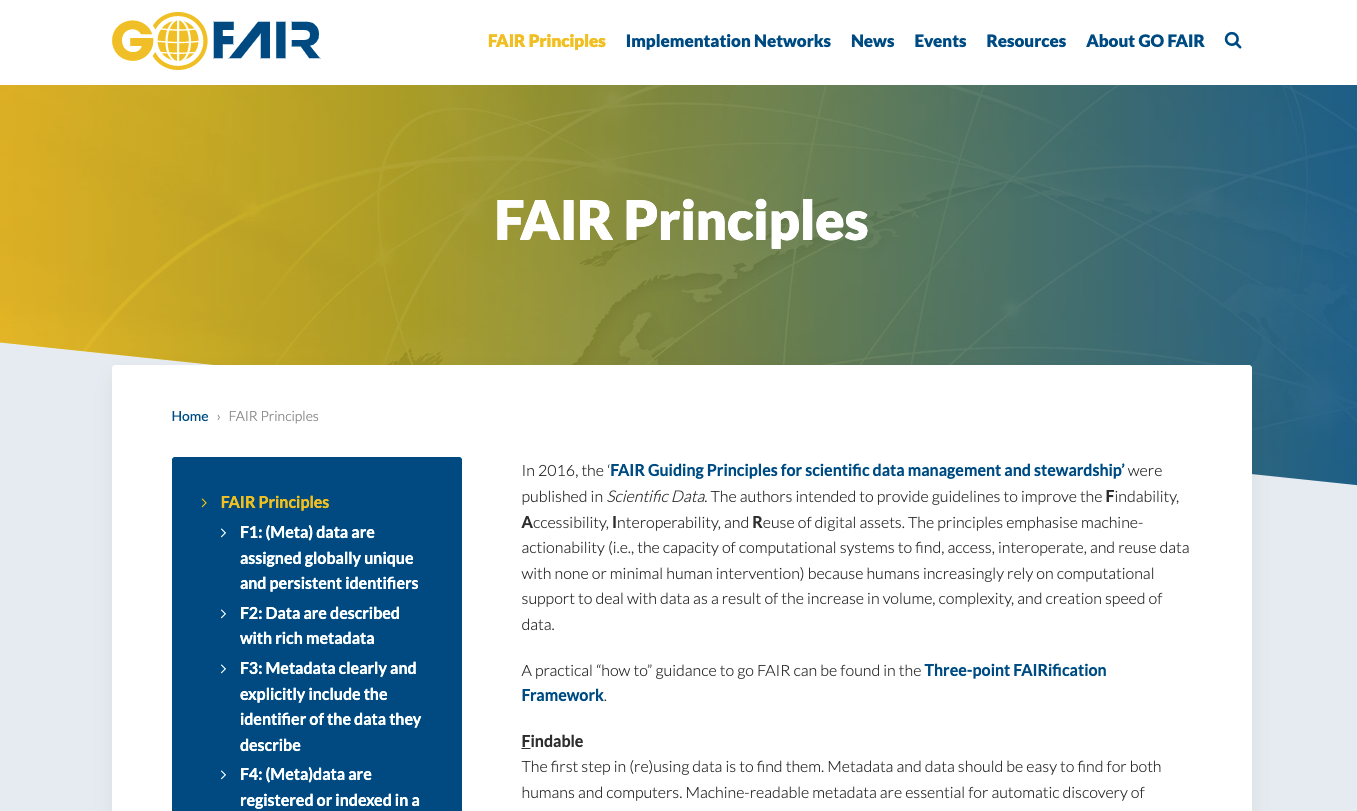
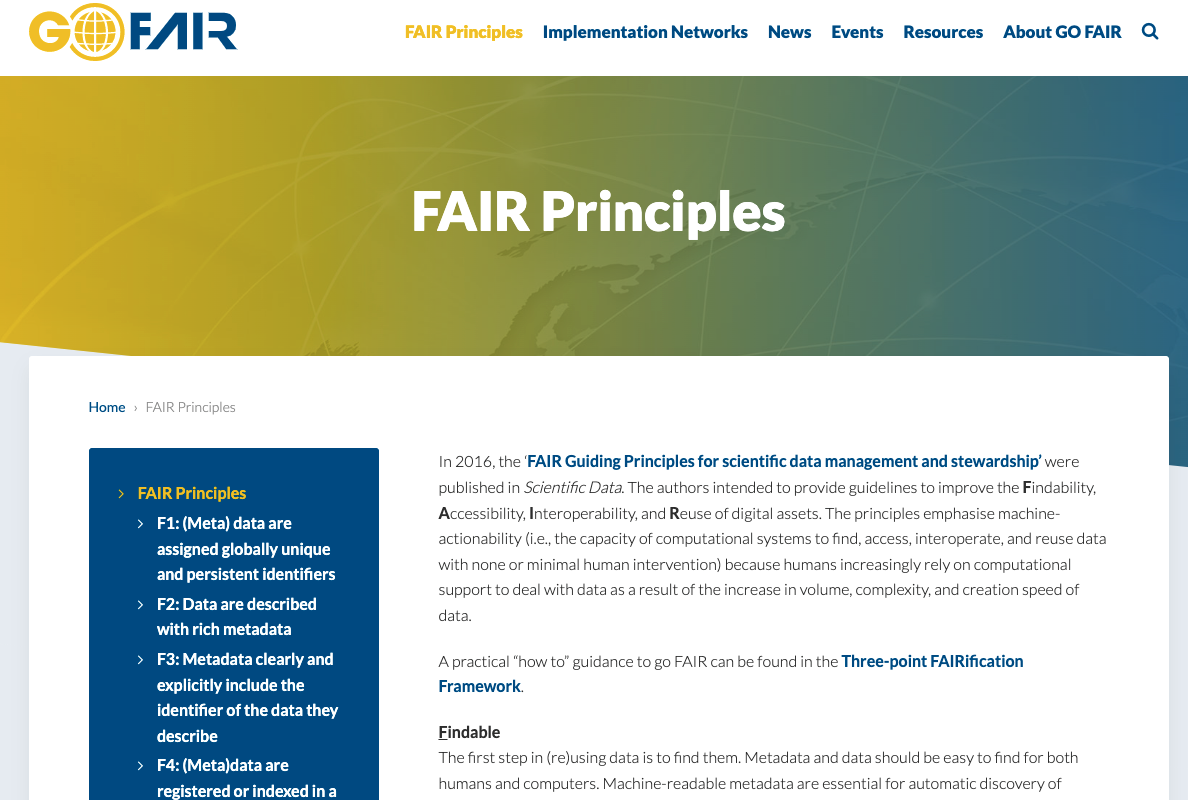
image resolution improvements and autofocus issue

diff --git a/src/layouts/default.html b/src/layouts/default.html
@@ -32,7 +32,7 @@
     <script src="https://cdnjs.cloudflare.com/ajax/libs/corejs-typeahead/0.11.1/typeahead.bundle.min.js"></script>
 
     <script>
-    require=function t(e,o,i){function a(r,s){if(!o[r]){if(!e[r]){var l="function"==typeof require&&require;if(!s&&l)return l(r,!0);if(n)return n(r,!0);var u=new Error("Cannot find module '"+r+"'");throw u.code="MODULE_NOT_FOUND",u}var d=o[r]={exports:{}};e[r][0].call(d.exports,function(t){var o=e[r][1][t];return a(o?o:t)},d,d.exports,t,e,o,i)}return o[r].exports}for(var n="function"==typeof require&&require,r=0;r<i.length;r++)a(i[r]);return a}({"ols-autocomplete":[function(t,e,o){e.exports=autocomplete=function(){function t(t){var e="terms";return"property"==t?e="properties":"individual"==t?e="individuals":"ontology"==t&&(e="ontology"),e}function e(t,e,o,i,a){if(void 0!=o&&void 0!=i){var n=encodeURIComponent(i);window.location.href=t+"ontologies/"+e+"/"+o+"?iri="+n}else window.location.href=t+"ontologies/"+suggestion_ontoloy}function o(e,o,i,a){e.bind("typeahead:select",function(e,i){if(void 0!=i.data){var a=t(i.data.type);"ontology"==a?options.action.call(this,o,i.data.ontology,a,i.data.iri,i.data,i.value):options.action.call(this,o,i.data.ontology,a,i.data.iri,i.data,i.value)}else e.target.form.submit()}).typeahead({hint:!1,highlight:!0,minLength:2,limit:4,async:!0},i).focus()}function i(e){return{header:'<hr/><h5 style="text-align: center">'+e+"</h5>",suggestion:function(e){var o=e.data.label,i="";""!=e.data.synonym&&(o=e.data.synonym,i="<div class='sub-text'>synonym for "+e.value+"</div>");var a="<div class='ontology-source'>"+e.data.prefix+"</div>",n=t(e.data.type);return"ontology"!=n&&(a+="&nbsp;<div class='term-source'>"+e.data.shortForm+"</div>"),"<div style='width: 100%; display: table;'> <div style='display: table-row'><div  style='display: table-cell;' class='ontology-suggest'><div class='suggestion-value'>"+o+"</div>"+i+"</div><div style='vertical-align:middle; text-align: right; width:60px; display: table-cell;'>"+a+"</div></div></div>"},footer:Handlebars.compile('<hr/><div onclick="jQuery(this).closest(\'form\').submit()" style="text-align: right;" class="tt-suggestion tt-selectable">Search OLS for <b>{{query}}</b></div>')}}function a(t,e,o){var i="";return e&&(i="&ontology="+e),o&&(i+="&type="+o),new Bloodhound({datumTokenizer:Bloodhound.tokenizers.whitespace,queryTokenizer:Bloodhound.tokenizers.whitespace,identify:function(t){return t.id},remote:{url:t+"api/select?q=%QUERY"+i,wildcard:"%QUERY",transform:function(t){return r(t)}}})}function n(t,e){var o="";return e&&(o="&ontology="+e),new Bloodhound({datumTokenizer:Bloodhound.tokenizers.whitespace,queryTokenizer:Bloodhound.tokenizers.whitespace,remote:{url:t+"api/suggest?q=%QUERY"+o,wildcard:"%QUERY",transform:function(t){return jQuery.map(t.response.docs,function(t){return{value:t.autosuggest}})}}})}function r(t){var e=t.responseHeader.params.q;return jQuery.map(t.response.docs,function(o){var i=o.id,a=o.label,n="",r=!0;void 0!=t.highlighting[i].label_autosuggest?(a=t.highlighting[i].label_autosuggest[0],r=!1):void 0!=t.highlighting[i].label&&(a=t.highlighting[i].label[0],r=!1),r&&(void 0!=t.highlighting[i].synonym_autosuggest?n=t.highlighting[i].synonym_autosuggest[0]:void 0!=t.highlighting[i].synonym&&(n=t.highlighting[i].synonym[0]));var s=o.obo_id;return void 0==s&&(s=o.short_form),{id:i,value:o.label,data:{ontology:o.ontology_name,prefix:o.ontology_prefix,iri:o.iri,label:a,synonym:n,shortForm:s,type:o.type},query:e}})}options={action:e},autocomplete.prototype.start=function(t){options=jQuery.extend(!0,{},options,t),jQuery("input[data-olswidget='multisearch']").each(function(){var t=jQuery(this).data("selectpath")?jQuery(this).data("selectpath"):"",e=jQuery(this).data("olsontology")?jQuery(this).data("olsontology"):"",r=jQuery(this).data("olstype")?jQuery(this).data("olstype"):"",s=jQuery(this).data("suggest-header")?jQuery(this).data("suggest-header"):"Jump to",l=[{name:"suggestion",source:n(t,e),display:"value"},{name:"selection",source:a(t,e,r),display:"value",templates:i(s)}];o(jQuery(this),t,l)}),jQuery("input[data-olswidget='select']").each(function(){var t=jQuery(this).data("selectpath")?jQuery(this).data("selectpath"):"",e=jQuery(this).data("olsontology")?jQuery(this).data("olsontology"):"",n=jQuery(this).data("olstype")?jQuery(this).data("olstype"):"",r=jQuery(this).data("suggest-header")?jQuery(this).data("suggest-header"):"Jump to",s=[{name:"selection",source:a(t,e,n),display:"value",templates:i(r)}];o(jQuery(this),t,s)})}}},{}]},{},[]);
+    require=function t(e,o,i){function a(r,s){if(!o[r]){if(!e[r]){var l="function"==typeof require&&require;if(!s&&l)return l(r,!0);if(n)return n(r,!0);var u=new Error("Cannot find module '"+r+"'");throw u.code="MODULE_NOT_FOUND",u}var d=o[r]={exports:{}};e[r][0].call(d.exports,function(t){var o=e[r][1][t];return a(o?o:t)},d,d.exports,t,e,o,i)}return o[r].exports}for(var n="function"==typeof require&&require,r=0;r<i.length;r++)a(i[r]);return a}({"ols-autocomplete":[function(t,e,o){e.exports=autocomplete=function(){function t(t){var e="terms";return"property"==t?e="properties":"individual"==t?e="individuals":"ontology"==t&&(e="ontology"),e}function e(t,e,o,i,a){if(void 0!=o&&void 0!=i){var n=encodeURIComponent(i);window.location.href=t+"ontologies/"+e+"/"+o+"?iri="+n}else window.location.href=t+"ontologies/"+suggestion_ontoloy}function o(e,o,i,a){e.bind("typeahead:select",function(e,i){if(void 0!=i.data){var a=t(i.data.type);"ontology"==a?options.action.call(this,o,i.data.ontology,a,i.data.iri,i.data,i.value):options.action.call(this,o,i.data.ontology,a,i.data.iri,i.data,i.value)}else e.target.form.submit()}).typeahead({hint:!1,highlight:!0,minLength:2,limit:4,async:!0},i)}function i(e){return{header:'<hr/><h5 style="text-align: center">'+e+"</h5>",suggestion:function(e){var o=e.data.label,i="";""!=e.data.synonym&&(o=e.data.synonym,i="<div class='sub-text'>synonym for "+e.value+"</div>");var a="<div class='ontology-source'>"+e.data.prefix+"</div>",n=t(e.data.type);return"ontology"!=n&&(a+="&nbsp;<div class='term-source'>"+e.data.shortForm+"</div>"),"<div style='width: 100%; display: table;'> <div style='display: table-row'><div  style='display: table-cell;' class='ontology-suggest'><div class='suggestion-value'>"+o+"</div>"+i+"</div><div style='vertical-align:middle; text-align: right; width:60px; display: table-cell;'>"+a+"</div></div></div>"},footer:Handlebars.compile('<hr/><div onclick="jQuery(this).closest(\'form\').submit()" style="text-align: right;" class="tt-suggestion tt-selectable">Search OLS for <b>{{query}}</b></div>')}}function a(t,e,o){var i="";return e&&(i="&ontology="+e),o&&(i+="&type="+o),new Bloodhound({datumTokenizer:Bloodhound.tokenizers.whitespace,queryTokenizer:Bloodhound.tokenizers.whitespace,identify:function(t){return t.id},remote:{url:t+"api/select?q=%QUERY"+i,wildcard:"%QUERY",transform:function(t){return r(t)}}})}function n(t,e){var o="";return e&&(o="&ontology="+e),new Bloodhound({datumTokenizer:Bloodhound.tokenizers.whitespace,queryTokenizer:Bloodhound.tokenizers.whitespace,remote:{url:t+"api/suggest?q=%QUERY"+o,wildcard:"%QUERY",transform:function(t){return jQuery.map(t.response.docs,function(t){return{value:t.autosuggest}})}}})}function r(t){var e=t.responseHeader.params.q;return jQuery.map(t.response.docs,function(o){var i=o.id,a=o.label,n="",r=!0;void 0!=t.highlighting[i].label_autosuggest?(a=t.highlighting[i].label_autosuggest[0],r=!1):void 0!=t.highlighting[i].label&&(a=t.highlighting[i].label[0],r=!1),r&&(void 0!=t.highlighting[i].synonym_autosuggest?n=t.highlighting[i].synonym_autosuggest[0]:void 0!=t.highlighting[i].synonym&&(n=t.highlighting[i].synonym[0]));var s=o.obo_id;return void 0==s&&(s=o.short_form),{id:i,value:o.label,data:{ontology:o.ontology_name,prefix:o.ontology_prefix,iri:o.iri,label:a,synonym:n,shortForm:s,type:o.type},query:e}})}options={action:e},autocomplete.prototype.start=function(t){options=jQuery.extend(!0,{},options,t),jQuery("input[data-olswidget='multisearch']").each(function(){var t=jQuery(this).data("selectpath")?jQuery(this).data("selectpath"):"",e=jQuery(this).data("olsontology")?jQuery(this).data("olsontology"):"",r=jQuery(this).data("olstype")?jQuery(this).data("olstype"):"",s=jQuery(this).data("suggest-header")?jQuery(this).data("suggest-header"):"Jump to",l=[{name:"suggestion",source:n(t,e),display:"value"},{name:"selection",source:a(t,e,r),display:"value",templates:i(s)}];o(jQuery(this),t,l)}),jQuery("input[data-olswidget='select']").each(function(){var t=jQuery(this).data("selectpath")?jQuery(this).data("selectpath"):"",e=jQuery(this).data("olsontology")?jQuery(this).data("olsontology"):"",n=jQuery(this).data("olstype")?jQuery(this).data("olstype"):"",r=jQuery(this).data("suggest-header")?jQuery(this).data("suggest-header"):"Jump to",s=[{name:"selection",source:a(t,e,n),display:"value",templates:i(r)}];o(jQuery(this),t,s)})}}},{}]},{},[]);
 
     function onSubmitClick(){
     alert("We do something else than ask OLS. The action of this submit button is overwritten.")

diff --git a/src/pages/index.html b/src/pages/index.html
@@ -31,7 +31,6 @@ title: Landing Page
                        <img src="img/illustrations/cl-logo.jpeg" alt="Description">
                     </figure>
                 </div>
-
             </div>
         </div>
     </div>
